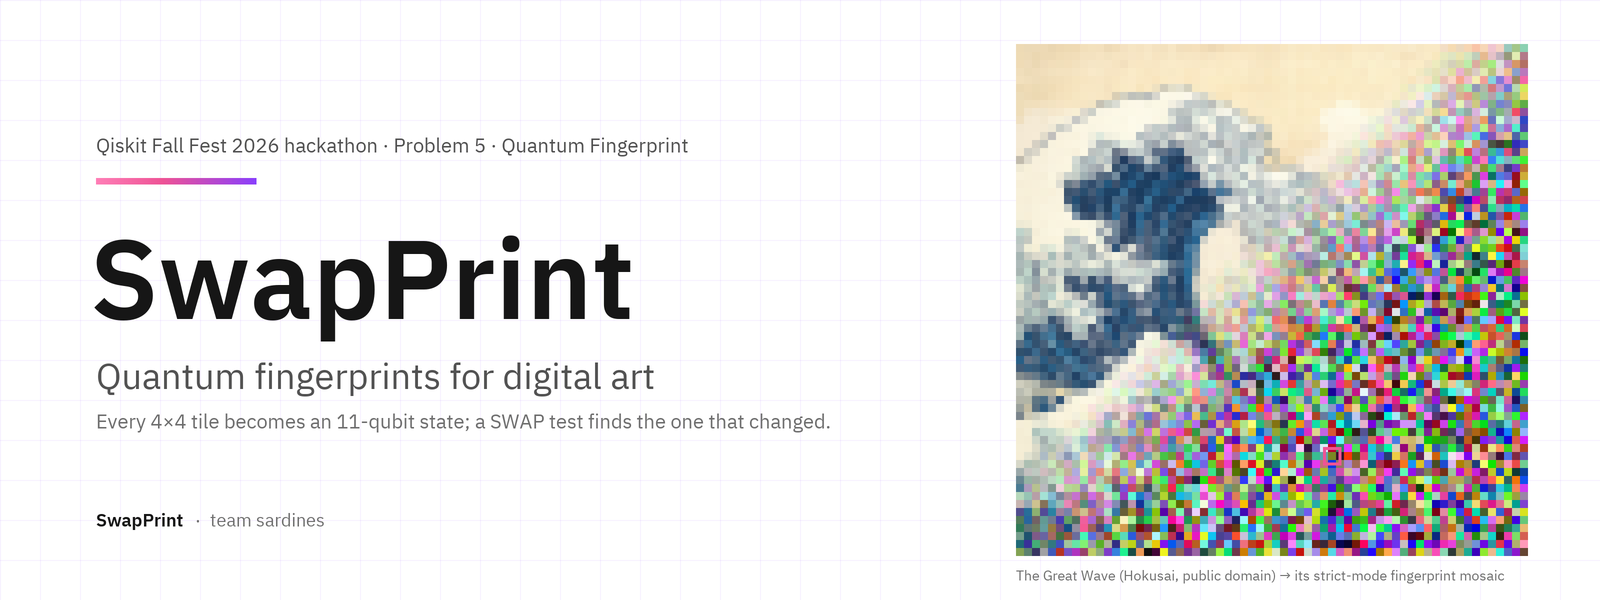
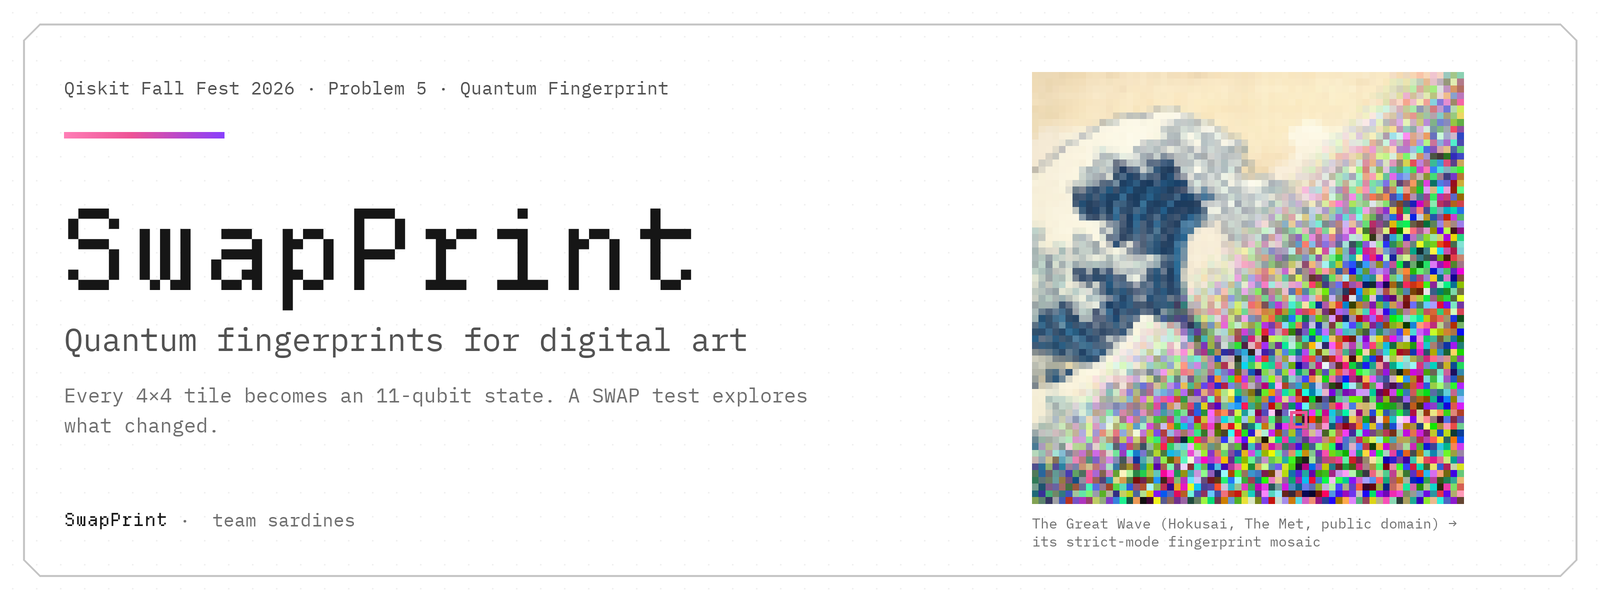
Finalize the human-narrated keynote media
Integrate the current hero banner, teaser and Ansh's walkthrough alongside Rashida's narrated keynote.

diff --git a/README.md b/README.md
@@ -33,8 +33,8 @@ An interactive web application built with Streamlit and styled with the open-sou
 | ![Verification View](app/screenshots/verify_full.png) | ![Tamper Studio](app/screenshots/tamper.png) |
 
 - **Live Public App:** **[Launch SwapPrint on Streamlit Community Cloud](https://qffbitssardines-withoutthes.streamlit.app/)** *(No installation required; runs in any modern desktop browser)*.
-- **Keynote Video (Timing reference — synthetic narration; Rashida final cut pending):** [Watch the Video on Google Drive](https://drive.google.com/file/d/1MgQzH2eoaSqJfYkz7lAx7c88kPXjNzxP/view) *(2:41 story-first keynote presentation, 1080p30, Carbon title/section/end cards, synchronized shot-two reveal, real Heron r2 hardware run on ibm_marrakesh, and honest limits; script in [`video/narration.md`](video/narration.md) and [`docs/DEMO_SCRIPT.md`](docs/DEMO_SCRIPT.md))*.
-- **Interactive App Walkthrough:** [Watch the UI Demo on Google Drive](https://drive.google.com/file/d/18DblHaZpW1hQR3vbmxkzonuY0GlAkSgy/view?usp=drive_link) *(2:45 walkthrough of the live Streamlit app recorded by Ansh)*.
+- **Keynote Video — Rashida's original human narration:** [Watch SwapPrint on Google Drive](https://drive.google.com/file/d/1MgQzH2eoaSqJfYkz7lAx7c88kPXjNzxP/view) *(2:59, 1080p30, pixel-themed story and actual app capture: the one-pixel edit, recorded simulated shot-two reveal, localised heatmap, encoding comparison, and a separate real ibm_marrakesh toy-state study with honest limits. Script: [`video/narration.md`](video/narration.md); production/credits: [`video/README.md`](video/README.md))*.
+- **Interactive App Walkthrough:** [Watch the UI Demo on Google Drive](https://drive.google.com/file/d/1dgfz55XI1keohNNpRWS6n_HypWbDnu88/view) *(3:11, 1080p, silent captioned walkthrough of the final app recorded by Ansh; supplementary to the narrated keynote)*.
 - **Live Local App:** `streamlit run app/streamlit_app.py --server.headless true` (opens at `http://localhost:8501`).
 
 ---
@@ -381,7 +381,7 @@ qff_bits_sardines/
 │   ├── helpers.py                 # Color conversions, heatmaps, state formatting
 │   ├── demo/                      # Automated recording scripts and storyboards
 │   ├── screenshots/               # High-resolution screenshots of the UI
-│   └── tests/                     # 21 automated unit tests for app behavior
+│   └── tests/                     # 51 automated tests for app behavior
 │
 ├── experiments/                   # Tampering Experiments & Evaluation (Owner: Rashida)
 │   ├── fetch_artworks.py          # Museum API ingestion script (CC0 / Public Domain)
@@ -418,6 +418,8 @@ qff_bits_sardines/
 - **Matplotlib** (PSF-based) — Scientific publication figure generation.
 - **Carbon Design System** (Apache-2.0, `@carbon/colors`, `@carbon/themes`) — Palette and visual design tokens.
 - **IBM Plex** (SIL OFL 1.1) — Typography (IBM Plex Sans, IBM Plex Mono).
+- **Departure Mono** (SIL OFL 1.1) — Pixel typography; licence in [`app/static/fonts/DepartureMono-OFL.txt`](app/static/fonts/DepartureMono-OFL.txt).
+- **Final keynote:** Rashida Baldiwala's original human narration, an original code-generated backing pad and pixel sardine mark; asset and production details in [`video/README.md`](video/README.md).
 - *Disclaimer:* SwapPrint is an independent student project and is not made or endorsed by IBM.
 
 ### Image Sources
